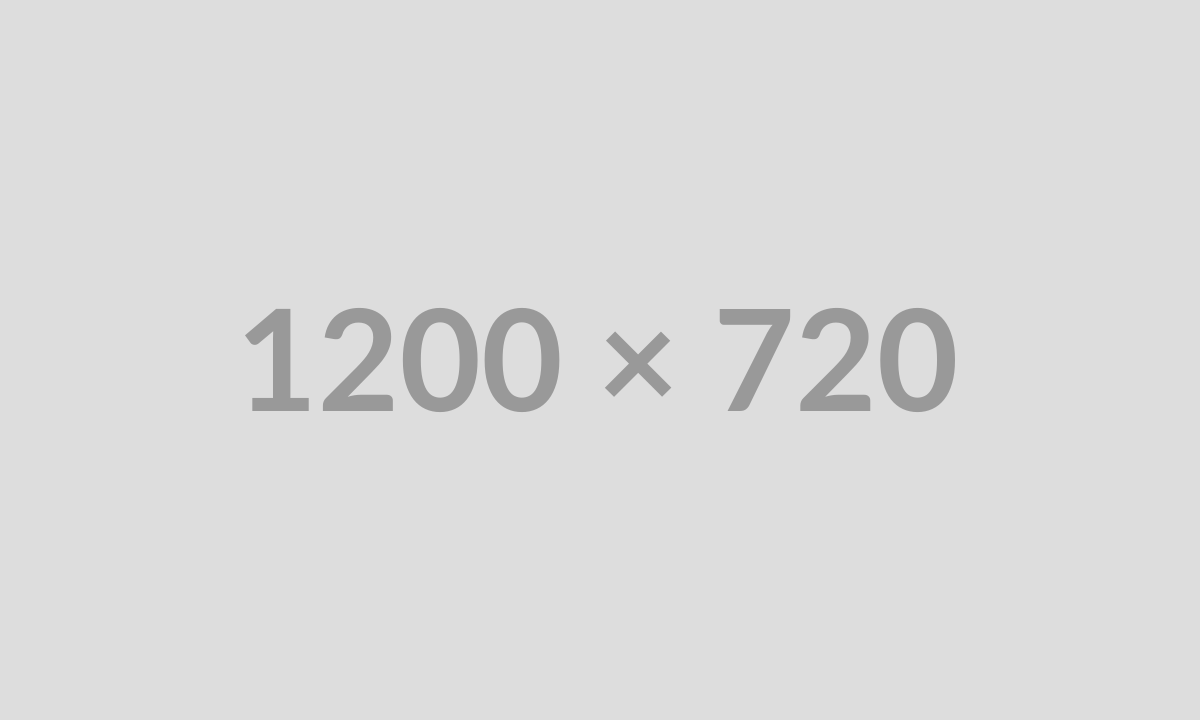
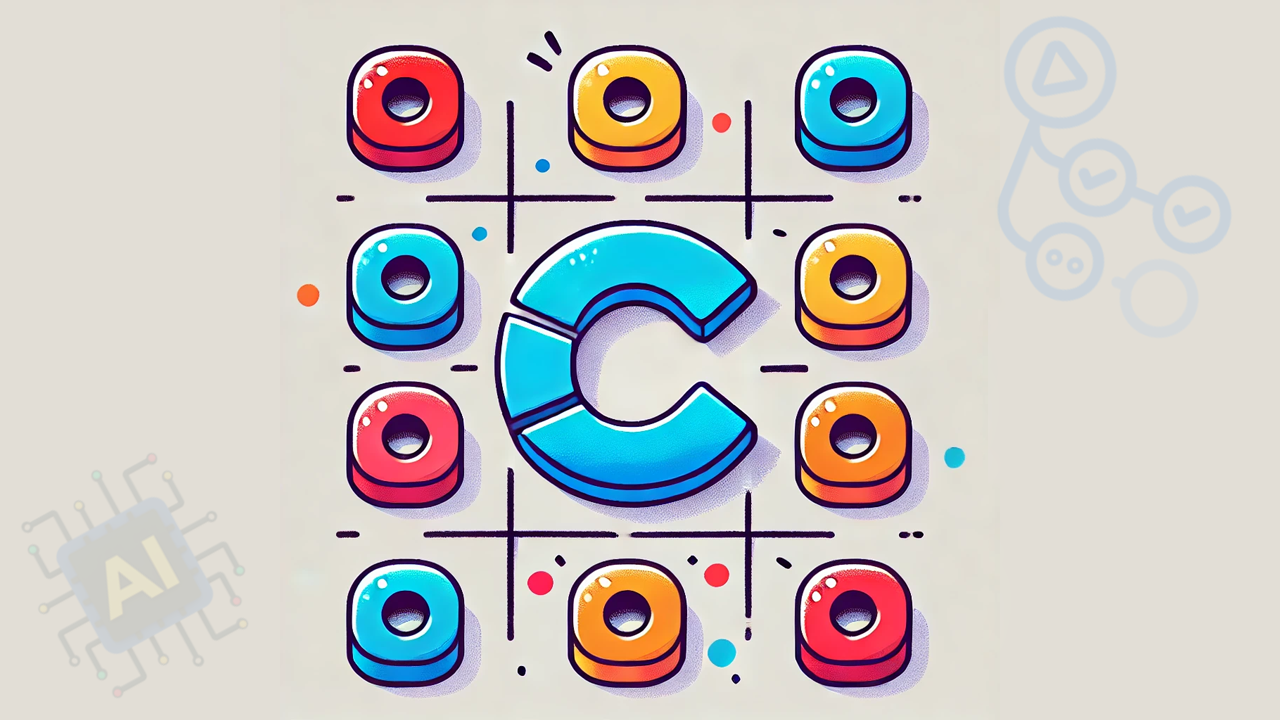
doc: upload preview

Changed region(s): [[0.185, 0.0306, 0.8017, 0.9778], [0.7092, 0.7333, 0.74, 0.7639], [0.2467, 0.7333, 0.2775, 0.7639]]

diff --git a/README.md b/README.md
@@ -8,7 +8,6 @@
     <strong>- <a href="https://www.unlam.edu.ar/">UNLaM</a> (National University of La Matanza) -</strong>
 </p>
 
-
 <p align="center">
     <a href="#summary">Summary</a> •
     <a href="#features">Features</a> •
@@ -30,13 +29,7 @@
 </p>
 
 <p align="center">
-    <a href="#"> <!-- TODO -->
-        <img src="./docs/statics/preview.png" width="800" alt="Preview"> <!-- TODO -->
-    </a>
-</p>
-
-<p align="center">
-    <a href="#" target="_blank">(demonstration video)</a> <!-- TODO -->
+    <img src="./docs/statics/preview.png" width="800" alt="Preview"> <!-- TODO -->
 </p>
 
 ## Summary

diff --git a/docs/translations/es/README.md b/docs/translations/es/README.md
@@ -29,13 +29,7 @@
 </p>
 
 <p align="center">
-    <a href="#"> <!-- TODO -->
-        <img src="../../statics/preview.png" width="800" alt="Vista previa">
-    </a>
-</p>
-
-<p align="center">
-    <a href="#" target="_blank">(video demostrativo)</a> <!-- TODO -->
+    <img src="../../statics/preview.png" width="800" alt="Vista previa">
 </p>
 
 ## Resumen